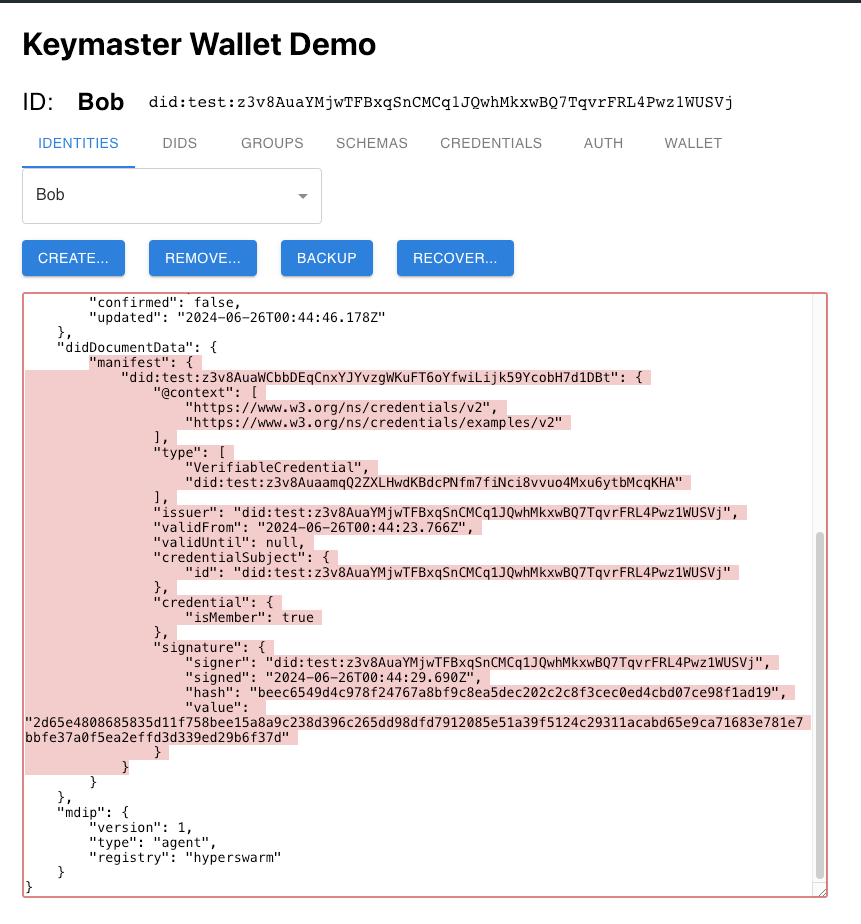
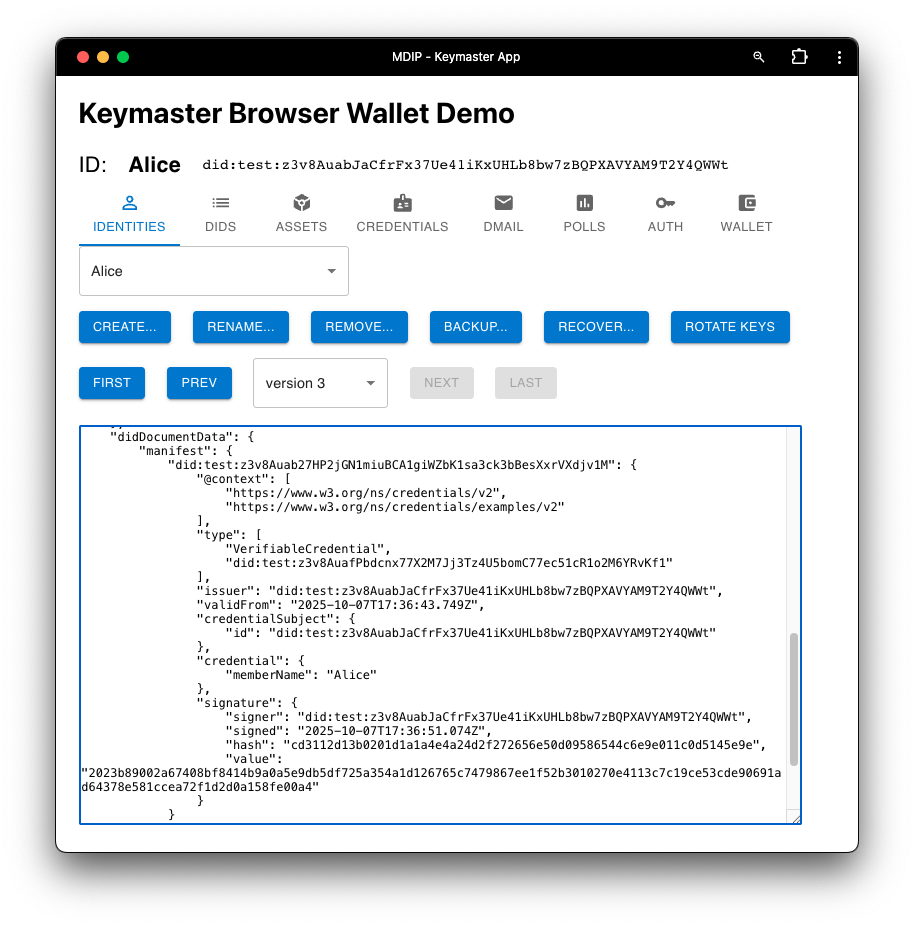
doc: updating webui documentation

diff --git a/doc/03-clients/02-webui/02-first-did.md b/doc/03-clients/02-webui/02-first-did.md
@@ -1,24 +1,23 @@
 ---
 title: Creating your first DID
-experimental: true
 sidebar_label: 'Your First DID'
 author: Christian
 ---
 
-The first time you visit https://mdip.keychain.org/, your browser will automatically generate a new MDIP Wallet. The keys and all information contained in an MDIP wallet are only available on the client-side. The screen below shows a blank MDIP wallet:
+When operating a local MDIP node, you can visit http://localhost:4224 to automatically generate a new MDIP Wallet. The keys and all information contained in an MDIP wallet are only available on the client-side. The screen below shows a blank MDIP wallet:
 
 ![New MDIP Keymaster Wallet](new-wallet.png)
 
-An MDIP wallet may contain multiple Agent DIDs, or identities. Each DID can be registered on a registry of the user's choice. Local-only and Hyperswarm global DID distribution are available, along with an upcoming list of immutable ledgers like Bitcoin and many others.
+An MDIP wallet may contain multiple Agent DIDs, or identities. Each DID can be registered on a registry of the user's choice. 
 
 ![Bob DID](bob-did.png)
 
-The MDIP Wallet above now contains 1 Agent DID nicknamed "Bob". Once a DID is created, numerous new Keymaster wallet functions become available:
+The MDIP Wallet above now contains an Agent DID nicknamed "Bob". Once a DID is created, numerous new Keymaster wallet functions become available:
 
-1. [IDENTITIES](./identities): Users can create new Agent DIDs, backup/recover and/or remove undesired Identities.
-1. [DIDS](./dids): Users can manage nicknames to known DIDs. Can be used to name any type of DIDs (agent, asset, groups, etc).
-1. [GROUPS](./groups): Manage groups of DIDs. Create groups of any types of DIDs. Note: Groups are public.
-1. [SCHEMAS](./schema): Manage JSON schemas to be used for attesting credentials. Note: Schemas are public and reusable.
-1. [CREDENTIALS](./credentials): Users can issue credential schemas to an agent DID, and accept credentials with the option to view & decrypt prior to acceptance.
-1. [AUTH](./auth): Create and/or respond to MDIP authentication challenges. The web UI only supports DID validation at this time.
-1. [WALLET](./wallet): Wallet-level backup and restore methods. Seen phrase, upload/download, or in-network backups are available.
+1. [IDENTITIES](./identities): Create and manage new Agent DIDs.
+1. [DIDS](./dids): Manage nicknames to known DIDs. Can be used to name any type of DIDs (agent, asset, groups, etc).
+1. [ASSETS](./assets): Create and manage asset DIDs.
+1. [CREDENTIALS](./credentials): Users can issue and manage their verifiable credentials.
+1. [DMAIL](./dmail): Create and manage P2P messages with other Agent DIDs.
+1. [AUTH](./auth): Create and/or respond to MDIP authentication challenges.
+1. [WALLET](./wallet): Wallet-level functions, seed phrase, backup and restore methods. 

diff --git a/doc/03-clients/02-webui/06-credentials.md b/doc/03-clients/02-webui/06-credentials.md
@@ -1,18 +1,22 @@
 ---
 title: Credentials
-experimental: true
-author: Christian
 ---
 
-The Credentials screen allows a user to decrypt, accept, or issue verifiable credentials. Users must register  a schema on the MDIP network, or select an existing schema's DID, before a credential can be issued.
+The Credentials screen allows a user to accept and issue fully P2P Verifiable Credentials. Users must first register a schema on the MDIP network, or select an existing schema DID, before a credential can be issued.
 
-The credential's subjects are listed from known Agent DIDs contained in the wallet (from the [IDENTITIES](./identities) and [DIDS](./dids) screens).
+The credential subjects are listed from known Agent DIDs contained in the wallet (from the [IDENTITIES](./identities) and [DIDS](./dids) screens).
 
 ![Credentials screen](credentials-screen.png)
 
-The credential screen also allows the issuing user to fill in the credential with recipient-specific content. The credential below attests Bob's membership to Alice:
+The credential screen also allows the issuing user to fill in the credential with recipient-specific content. In the credential Alice creates a VC that attests a memberName to Charlie's Agent DID.
 
 ![Issue Credential](issue-credential.png)
+
+## ISSUED Screen
+
+In the "ISSUED" Credentials screen, a user can manage the VCs they issued.
+
+![Issued Credentials](issued-credentials.png)
 
 ## HELD Screen
 
@@ -32,6 +36,6 @@ In the "HELD" Credentials screen, a user can chose from a variety of options:
 
 - **Unpublish**: This removes the credential from a DID manifest. Note: other nodes on the network may retain the *history* of a DID; once published or revealed a credential has been winessed by other nodes.
 
-The image below shows a portion of Bob's Agent DID with a revealed "isMember: true" credential in the visible portion of his DID document:
+The image below shows a portion of Alice's Agent DID with a revealed membership Verifiable Credential in the Manifest section of her DID document:
 
 ![revealed membership](revealed-membership.png)

diff --git a/doc/03-clients/02-webui/05-assets.md b/doc/03-clients/02-webui/05-assets.md
@@ -1,0 +1,35 @@
+---
+title: Assets
+---
+
+The Assets screen allows a user to create and manage multiple types of digital assets.
+
+## SCHEMAS Screen
+
+In the Schemas screen, users can create their own Verifiable Credential schemas or access schemas created and registered on MDIP by other users. Here, Alice creates a "ClubMembership" schema containing a "memberName".
+
+![SCHEMAS screen](schema-screen.png)
+
+## GROUPS Screen
+
+Here, users can group DIDs together, under a new Group DID. Groups can contain groups. Groups are public documents, which means other network nodes will see the DIDs contained in a group DID. 
+
+![GROUPS screen](groups-screen.png)
+
+## IMAGES Screen
+
+This screen allows users to assign an Asset DID to an image file. The file is uploaded to the node's content addressable storage subsystem (IPFS).
+
+![IMAGES screen](images-screen.png)
+
+## DOCUMENTS Screen
+
+This screen allows users to assign an Asset DID to a document. The file is "notarized" on the registry selected by the user.
+
+![DOCUMENTS Screen](document-screen.png)
+
+## VAULTS Screen
+
+Create encrypted vaults that can contain any number of digital items and any number of recipient members. Read access to the Vault may be shared with Member DIDs. 
+
+![VAULTS Screen](vault-screen.png)

diff --git a/doc/03-clients/02-webui/README.md b/doc/03-clients/02-webui/README.md
@@ -4,13 +4,12 @@ sidebar_label: Tutorial
 pagination_prev: null
 ---
 
-This section contains basic instructions to familiarize you with the use of MDIP's Keymaster web UI.
+This section contains basic instructions to familiarize you with the use of MDIP's Keymaster WebUI.
 
-The Keymaster WebUI is a client interface to the MDIP Keymaster library<!--Add link when library docs are written-->, available in the [`kc` repository](https://github.com/keychainMDIP/kc). The web UI is not intended to be a commercial wallet; it is a reference implementation of an MDIP wallet offering a web (React) user interface.
+The Keymaster WebUI is a client interface to the MDIP Keymaster library. The web UI is not intended to be a commercial wallet; it is a reference implementation of an MDIP wallet offering a web (React) user interface.
 
 Wallet creation and MDIP key operations are performed client-side. The server-side is running an MDIP Gatekeeper server, which exposes the Keymaster WebUI server components on port `4224`.
 
-An online version of the MDIP Keymaster WebUI is available here: https://mdip.keychain.org/
-
+When operating a local MDIP node, the MDIP Keymaster WebUI is available at http://localhost:4224/ 
 
 

diff --git a/doc/03-clients/02-webui/03-identities.md b/doc/03-clients/02-webui/03-identities.md
@@ -1,8 +1,6 @@
 ---
 title: Identities
-experimental: true
 sidebar_label: Identities
-author: Christian
 ---
 
 ![Identities screen](identities-screen.png)
@@ -10,8 +8,10 @@ author: Christian
 This screen offers the following functionality:
 
 1. CREATE: Creates a new agent DID and registers the document to the user-selected registry.
+1. RENAME: Rename the current agent DID nickname label.
 1. REMOVE: Removes an agent DID from the user's local wallet.
 1. BACKUP: Backup an agent DID to an encrypted DID Vault. Recovery is later possible using only wallet keys & a DID identifier.
 1. RECOVER: Recovers an Agent DID from its DID Identifier. This will recover the latest Agent DID backup stored in the encrypted DID Vault.
+1. ROTATE KEYS: Generates a new keypair for the DID and rotate key version in DID Document. 
 
 ![Two identities](two-identities.png)

diff --git a/doc/03-clients/01-cli/02-wallets.md b/doc/03-clients/01-cli/02-wallets.md
@@ -4,11 +4,6 @@ sidebar_label: Wallets
 slug: wallets
 ---
 
-> [!WARNING]
-> The Keychain CLI wallet is only to be used for experimental and development purposes.
->
-> The Keychain CLI wallet is not encrypted and is stored on the local user's file system. Future MDIP wallets will implement additional capabilities (ex: SIWYS). 3rd party wallet developers will also be invited to create MDIP-compatible user wallet implementations.
-
 ## What is a Wallet?
 
 The wallet contains a user's private data, including secret keys and associated DIDs. The Keychain-CLI wallet also includes a user's locally named alias for each identity DID.

diff --git a/doc/03-clients/02-webui/09-auth.md b/doc/03-clients/02-webui/09-auth.md
@@ -1,7 +1,5 @@
 ---
 title: Authentication
-experimental: true
-author: Christian
 ---
 
 The Authentication screen allows a user to issue and/or respond to MDIP challenges. A challenge DID is entered (or generated) to the **Challenge** text field; a user can create a Response DID to the provided challenge. The response to a challenge will prove to the challenger that the responder conrols the private keys of a particular DID.

diff --git a/doc/03-clients/02-webui/10-wallet.md b/doc/03-clients/02-webui/10-wallet.md
@@ -1,10 +1,10 @@
 ---
 title: Wallet
-experimental: true
-author: Christian
 ---
 
-The Wallet screen allows a user to backup their wallet. Three different backup / restore paths are provided:
+The Wallet screen allows a user to backup their wallet. 
+
+Three different backup / restore paths are provided:
 
 - Download / Upload of a wallet to / from local storage.
 - Recover a wallet's keys from a 12-words mnemonic.

diff --git a/doc/03-clients/02-webui/07-dmail.md b/doc/03-clients/02-webui/07-dmail.md
@@ -1,0 +1,7 @@
+---
+title: DMail
+---
+
+DMail is a full-featured P2P messaging system built using MDIP DIDs and GroupVaults. 
+
+![DMAIL screen](dmail-screen.png)

diff --git a/doc/03-clients/01-cli/07-challenge-responses.md b/doc/03-clients/01-cli/07-challenge-responses.md
@@ -1,6 +1,5 @@
 ---
 title: Working with Challenges and Responses
-experimental: true
 sidebar_label: Challenges and Responses
 slug: challenge-responses
 ---

diff --git a/doc/03-clients/01-cli/08-aliased-names.md b/doc/03-clients/01-cli/08-aliased-names.md
@@ -1,6 +1,5 @@
 ---
 title: Working with Aliased Names
-experimental: true
 sidebar_label: Aliased Names
 slug: aliased-names
 ---

diff --git a/doc/03-clients/01-cli/05-credentials.md b/doc/03-clients/01-cli/05-credentials.md
@@ -1,6 +1,5 @@
 ---
 title: Working with Credentials
-experimental: true
 sidebar_label: Credentials
 slug: credentials
 ---
